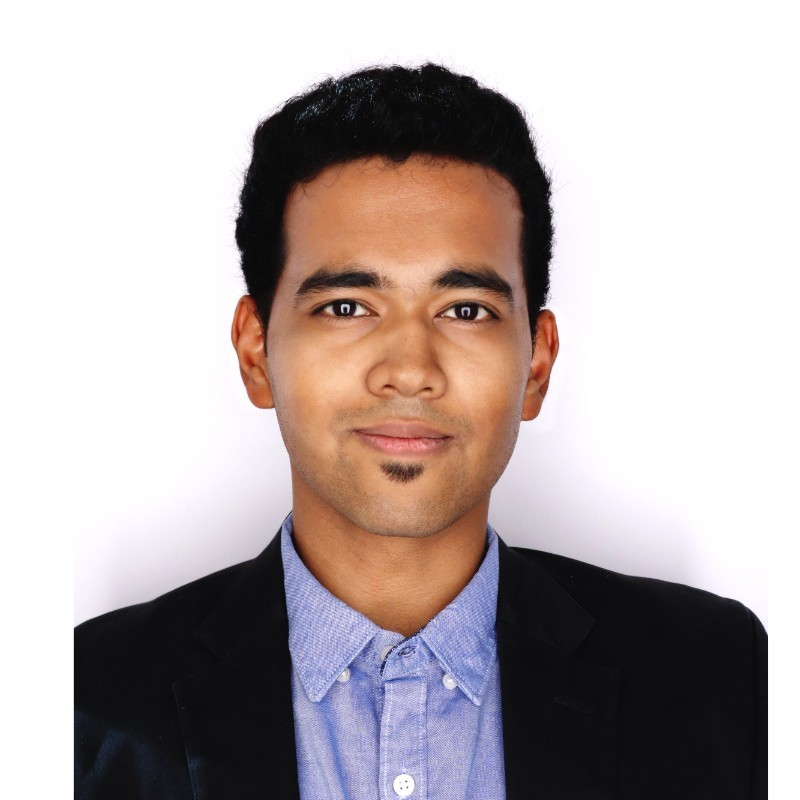
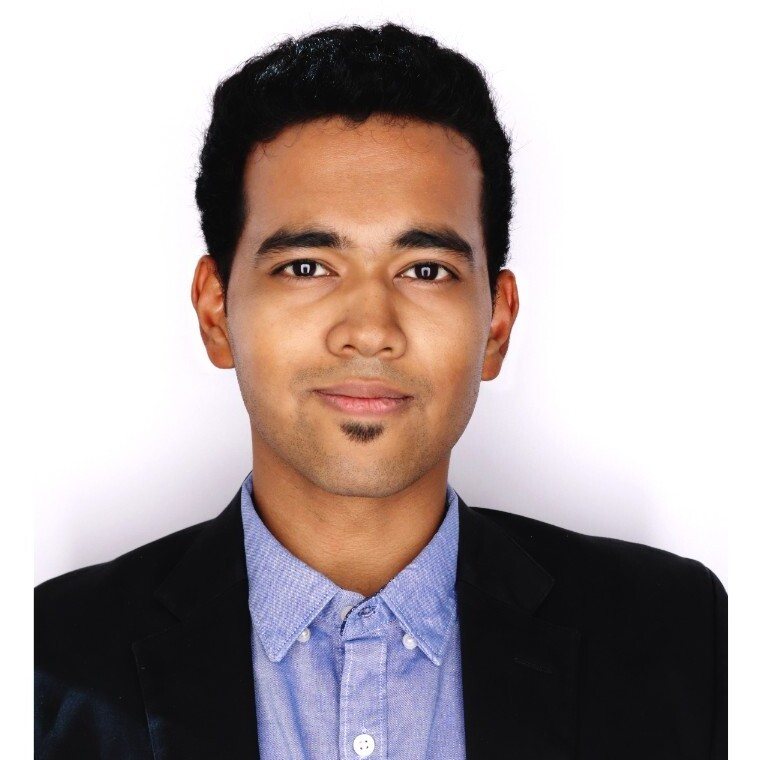
fixed home page image

diff --git a/src/Components/Home.jsx b/src/Components/Home.jsx
@@ -21,16 +21,22 @@ const Home = () => {
         <br/>
         <Container fluid>
         <Row>
-          <Col sm="12" md="12" lg="7"><Image src={kevimg} style={{height:"500px"}} className="shadow-lg p-3 mb-5 bg-white rounded" /></Col>
-          <Col sm="12" md="12" lg="5" ><div>
-          <h1>Kevin D'sa</h1>
+          <Col sm="12" md="12" lg="7" style={{textAlign: "center"}}>
+            <div >
+            <Image src={kevimg} style={{height:"500px"}} className="shadow-lg p-3 mb-5 bg-white rounded" />
+            </div>
+          </Col>
+          <Col sm="12" md="12" lg="5" >
+          <div>
+          <h1>Hi, I am Kevin D'sa !!</h1>
           <h2>Welcome to my Website</h2>
           <br/>
           </div>
+          
           <div className='qrCode'>
           <Image src={QRcode} style={{height:"375px"}} className="shadow-lg p-3 mb-5 bg-white rounded"/>
           </div>
-          <div>
+          <div >
           <Stack direction="horizontal" gap={3}>
       
       <Button variant="secondary" size="lg" href='/about'>About Me</Button>

diff --git a/src/App.js b/src/App.js
@@ -13,6 +13,7 @@ import React from 'react';
     import Music from './Components/Music/Music';
     import About from './Components/About/About';
     import Projects from './Components/Projects/ProjectHome';
+    //import Footer from './Components/Footer/Footer';
     //import Character from './components/Character';
     //import Characterlistbypage from './components/Characterbypage';
     //import CharacterHistory from './components/Characterhistory';

diff --git a/src/Components/Footer/Footer.jsx b/src/Components/Footer/Footer.jsx
@@ -3,7 +3,9 @@ import React from 'react';
 
 const Footer = () => {
   return (<div>
-
+     <div style={{backgroundColor:"black"}}>
+      <h1>Hello i am a footer</h1>
+     </div>
   </div>
   );
 };
